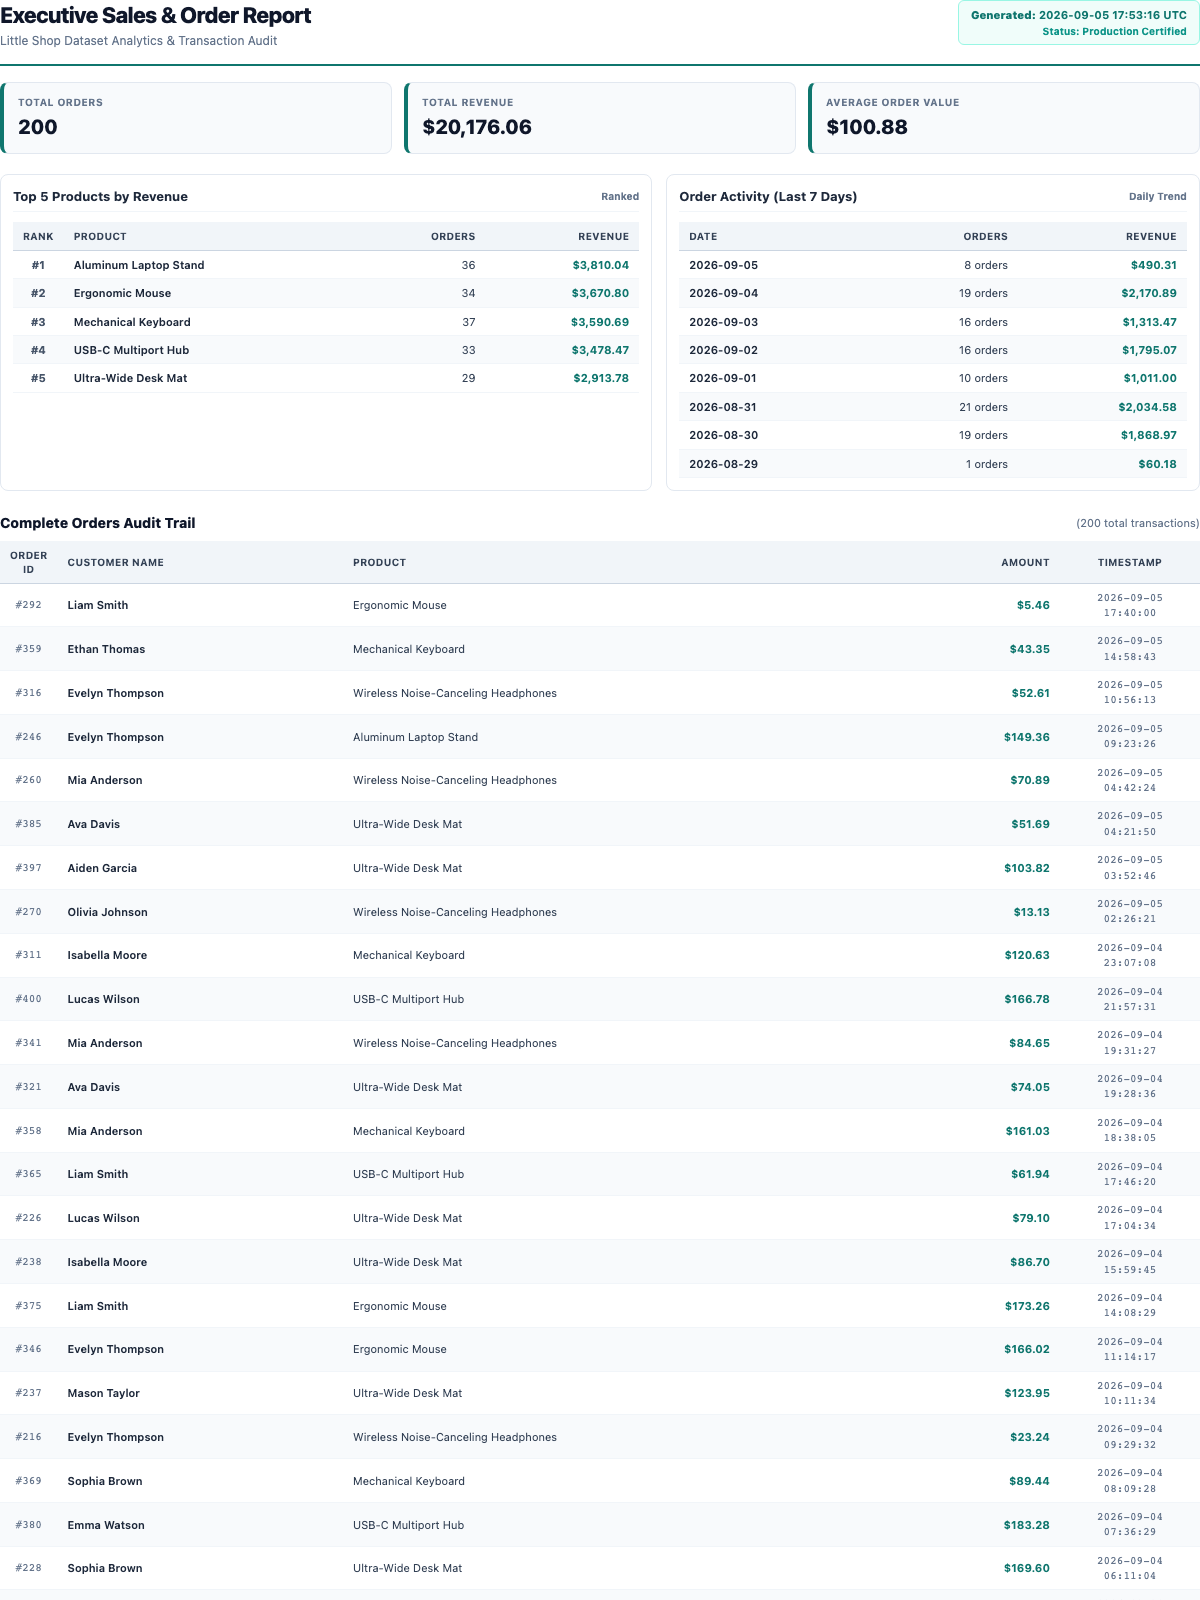
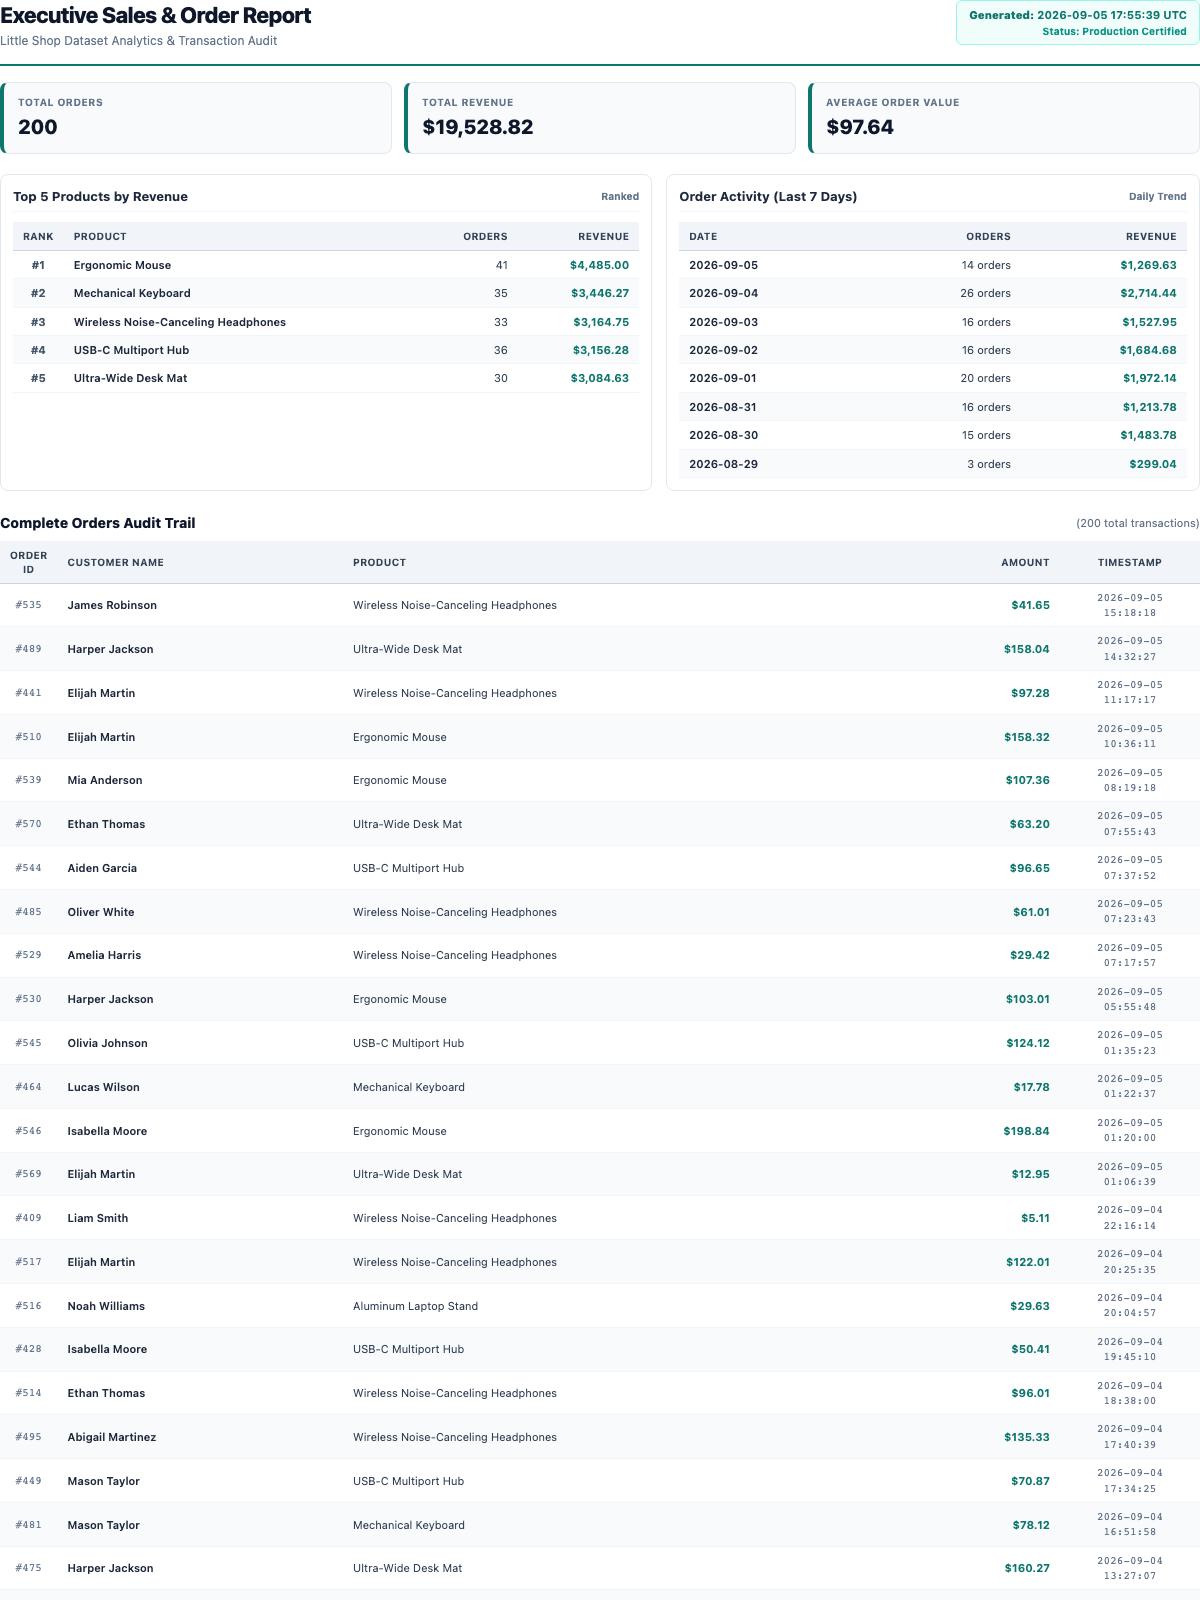
test(a8): isolate test harness and verify end-to-end regression

diff --git a/pdf-report-generator/tests/test_pdf_report.py b/pdf-report-generator/tests/test_pdf_report.py
@@ -7,19 +7,24 @@ import pytest
 import pypdf
 from fastapi.testclient import TestClient
 
-# Load parent main module explicitly to avoid namespace collision
-PARENT_DIR = Path(__file__).resolve().parent.parent.parent
-parent_main_path = PARENT_DIR / "main.py"
-spec = importlib.util.spec_from_file_location("parent_main", str(parent_main_path))
-parent_main = importlib.util.module_from_spec(spec)
-spec.loader.exec_module(parent_main)
-
-# Load A8 modules
 A8_DIR = Path(__file__).resolve().parent.parent
+PARENT_DIR = A8_DIR.parent
+
 if str(A8_DIR) not in sys.path:
     sys.path.insert(0, str(A8_DIR))
 
-import main as a8_main
+# Load A8 main explicitly
+a8_main_path = A8_DIR / "main.py"
+spec_a8 = importlib.util.spec_from_file_location("a8_main_mod", str(a8_main_path))
+a8_main = importlib.util.module_from_spec(spec_a8)
+spec_a8.loader.exec_module(a8_main)
+
+# Load Parent main explicitly
+parent_main_path = PARENT_DIR / "main.py"
+spec_parent = importlib.util.spec_from_file_location("parent_main_mod", str(parent_main_path))
+parent_main = importlib.util.module_from_spec(spec_parent)
+spec_parent.loader.exec_module(parent_main)
+
 import database as a8_db
 import seed as a8_seed
 import report_queries as a8_queries

diff --git a/tests/test_workflow.py b/tests/test_workflow.py
@@ -1,4 +1,7 @@
 import os
+import sys
+import importlib.util
+from pathlib import Path
 import pytest
 from fastapi.testclient import TestClient
 
@@ -6,7 +9,13 @@ from fastapi.testclient import TestClient
 os.environ["LLM_STUB"] = "1"
 os.environ["LLM_ENABLED"] = "true"
 
-from main import app
+ROOT_DIR = Path(__file__).resolve().parent.parent
+root_main_path = ROOT_DIR / "main.py"
+spec = importlib.util.spec_from_file_location("root_app_main", str(root_main_path))
+root_main = importlib.util.module_from_spec(spec)
+spec.loader.exec_module(root_main)
+app = root_main.app
+
 from src.workflow.llm_decision import parse_and_validate_decision, evaluate_decision_node
 
 client = TestClient(app)
